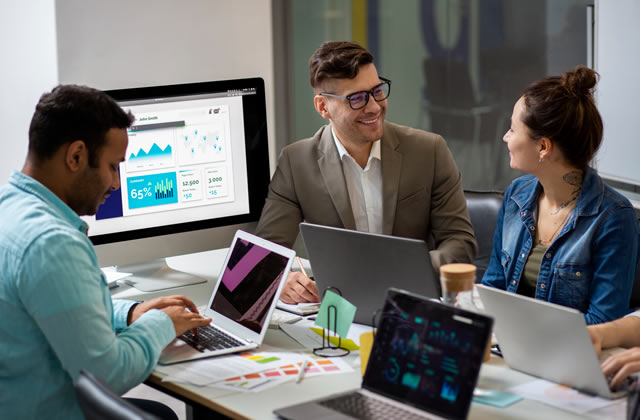
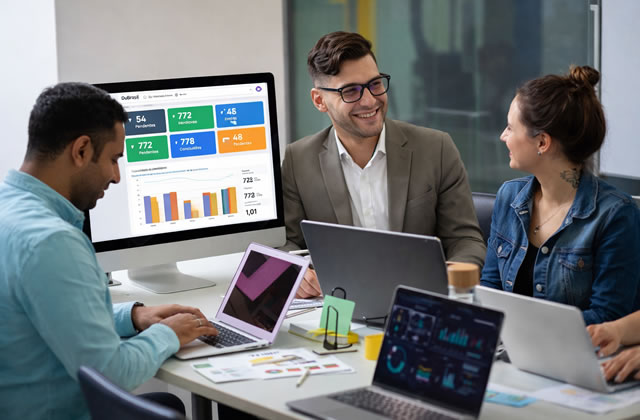
ajustes copy

diff --git a/src/components/landing/Hero.tsx b/src/components/landing/Hero.tsx
@@ -1,7 +1,7 @@
 import { Button } from "@/components/ui/button";
 import { Badge } from "@/components/ui/badge";
 import { ArrowRight, Play, Sparkles } from "lucide-react";
-import heroDashboard from "@/assets/dubrasil-solucoes.jpg.jpeg";
+import heroDashboard from "@/assets/dubrasil-nova.jpeg";
 
 const WHATSAPP_NUMBER = "5534996367430";
 
